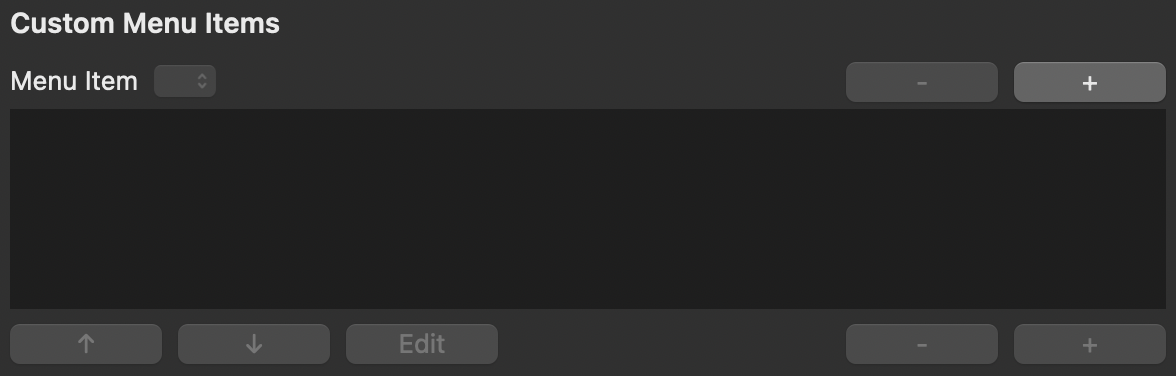
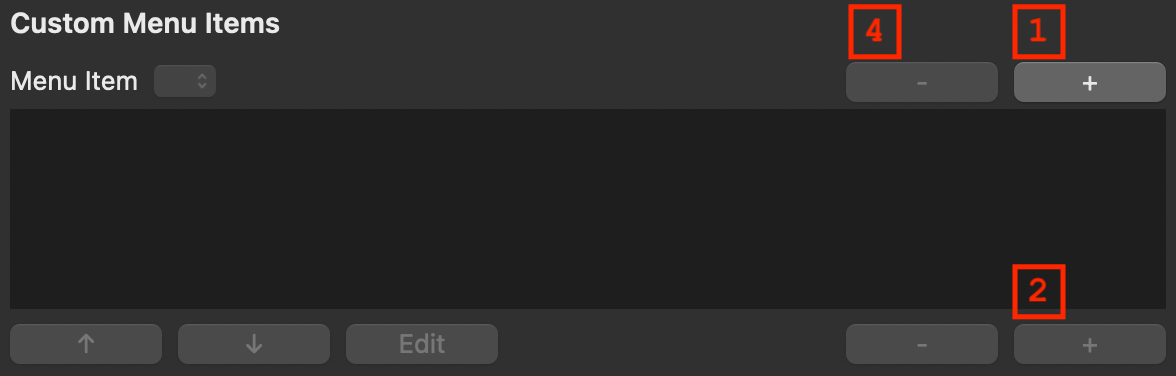
Update docs

Changed region(s): [[0.8571, 0.0, 0.9184, 0.1755], [0.7041, 0.0, 0.7653, 0.1755], [0.8571, 0.7021, 0.9184, 0.8484]]

diff --git a/docs/CUSTOM_MENUITEM_INFO.md b/docs/CUSTOM_MENUITEM_INFO.md
@@ -2,7 +2,7 @@
 
 Users have the ability to create their own custom menu items in ZotMoov, appearing in the context menu when you right-click an item. They can be created in Advanced Options.
 
-<img src="res/cmu.png" width="300"/>
+<img src="res/cmu.png" width="600"/>
 
 1. Select the top [+] to create a new menu item. Give it a title that you want to appear in the context menu.
 2. Select the bottom [+] to add a new command.

diff --git a/docs/CUSTOM_WILDCARD_INFO.md b/docs/CUSTOM_WILDCARD_INFO.md
@@ -2,7 +2,7 @@
 
 Users have the ability to create their own custom wildcards in ZotMoov, replacing %1, %2, ..., %9. They can be created/edited in Advanced Options.
 
-<img src="res/cwc.png" width="300"/>
+<img src="res/cwc.png" width="600"/>
 
 1. Select the wildcard you want to edit in the drop down menu
 2. Press [+] to add a wildcard command. The first command **must** be either ```text``` or ```field```.
